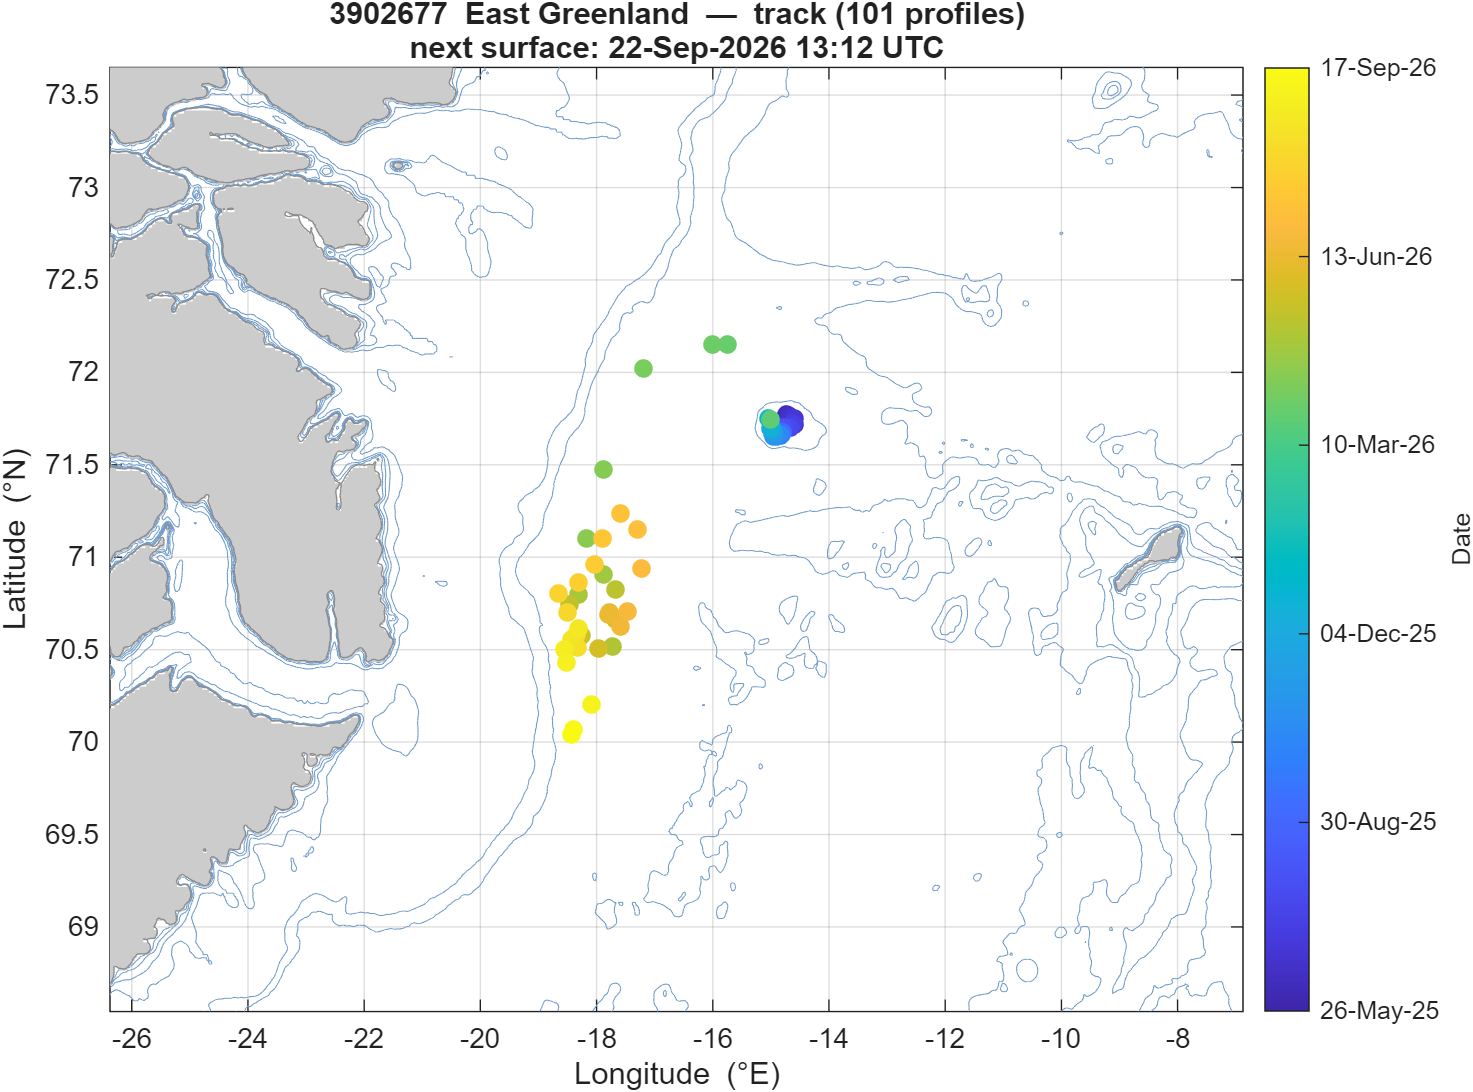
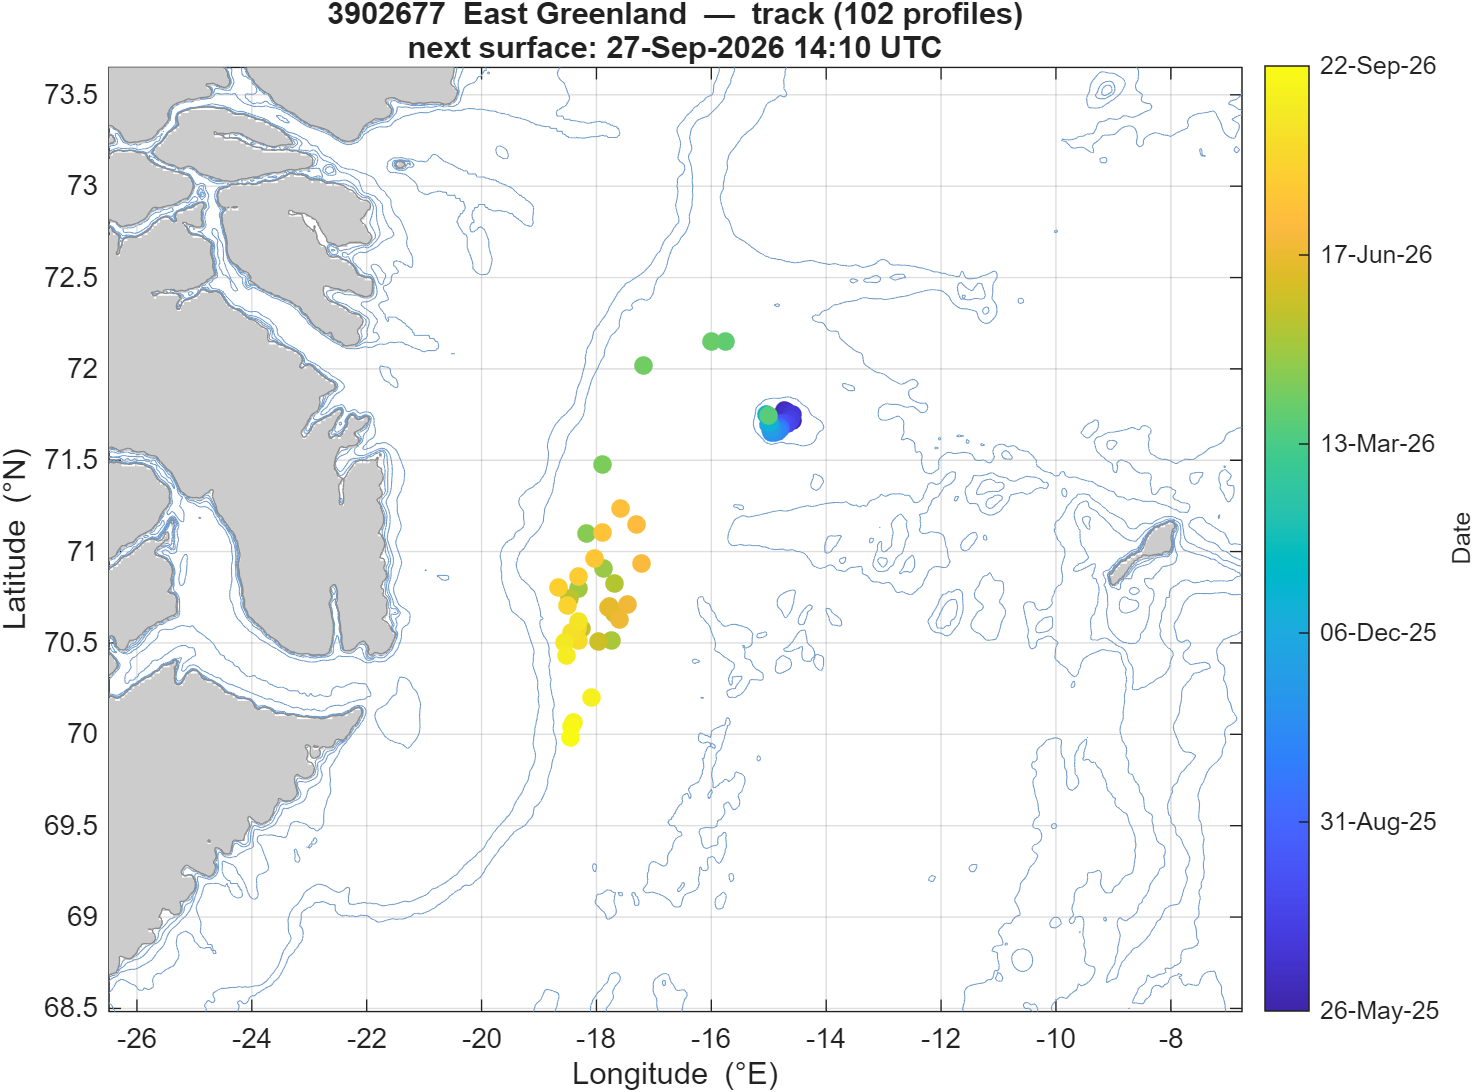
data update

diff --git a/data.js b/data.js
@@ -15,7 +15,7 @@
 //   graphs        [{label, src}, ...] figures for the fold-out
 //   notes         free text from floats_config.csv
 
-const floatUpdated = "2026-09-25 14:02";
+const floatUpdated = "2026-09-25 14:11";
 
 const floatData = [
   {
@@ -27,15 +27,15 @@ const floatData = [
     "region": "greenland",
     "status": "active",
     "status_note": "",
-    "latitude": 70.0422,
-    "longitude": -18.438,
-    "location": "70.042° N, 18.438° W",
+    "latitude": 69.9829,
+    "longitude": -18.4608,
+    "location": "69.983° N, 18.461° W",
     "deployment_date": "2025-05-27",
-    "last_surface": "2026-09-17 14:12",
-    "days_since": 8,
-    "next_surface": "2026-09-22 13:08",
-    "next_surface_source": "median cycle interval",
-    "n_profiles": 99,
+    "last_surface": "2026-09-22 15:10",
+    "days_since": 3,
+    "next_surface": "2026-09-27 14:10",
+    "next_surface_source": "nke cycle period",
+    "n_profiles": 100,
     "track": [
       [
         71.7159,
@@ -440,6 +440,10 @@ const floatData = [
       [
         70.0422,
         -18.438
+      ],
+      [
+        69.9829,
+        -18.4608
       ]
     ],
     "trajectory": "assets/plots/3902677/3902677_map.png",
@@ -449,8 +453,8 @@ const floatData = [
         "src": "assets/plots/3902677/3902677_sections.png"
       },
       {
-        "label": "Profile 099  (2026-09-17)",
-        "src": "assets/plots/3902677/3902677_profile_099_2026-09-17.png"
+        "label": "Profile 100  (2026-09-22)",
+        "src": "assets/plots/3902677/3902677_profile_100_2026-09-22.png"
       }
     ],
     "notes": "sheet lists SBD+GDAC"
@@ -2170,7 +2174,7 @@ const floatData = [
     "location": "56.325° N, 19.386° E",
     "deployment_date": "2024-11-25",
     "last_surface": "2026-09-20 17:39",
-    "days_since": 4.8,
+    "days_since": 4.9,
     "next_surface": "2026-09-25 12:39",
     "next_surface_source": "nke cycle period",
     "n_profiles": 143,
